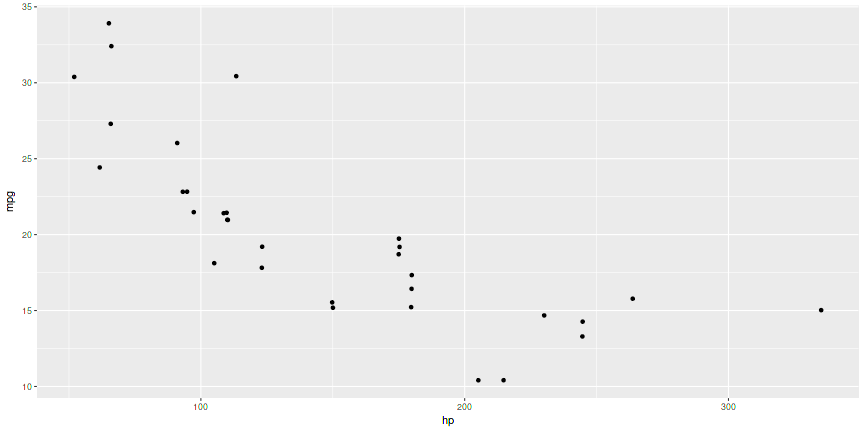
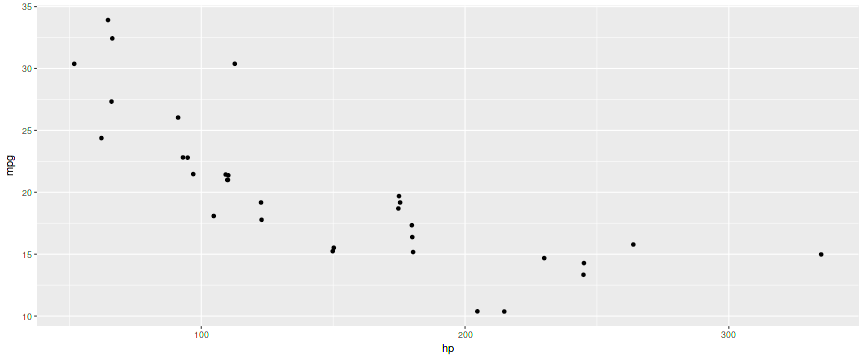
Modifications qui seront validées : 	supprimé :        .cache/unnamed-chunk-1_88f034bdf645f4dd7bbac26e81604a2c.RData 	supprimé :        .cache/unnamed-chunk-1_88f034bdf645f4dd7bbac26e81604a2c.rdb 	supprimé :        .cache/unnamed-chunk-1_88f034bdf645f4dd7bbac26e81604a2c.rdx 	modifié :         .cache

diff --git a/shinyApp/slides/index.html b/shinyApp/slides/index.html
@@ -83,6 +83,10 @@ All the variables appears after loading, and they can be selected in order to be
   <article data-timings="">
     <p>The chosen variables are plotted in a scatterplot like the following :</p>
 
+<pre><code class="r">require(ggplot2)
+ggplot(data=mtcars, aes(x=hp, y=mpg)) + geom_jitter() + xlab(&quot;hp&quot;) + ylab(&quot;mpg&quot;)
+</code></pre>
+
 <p><img src="assets/fig/unnamed-chunk-1-1.png" title="plot of chunk unnamed-chunk-1" alt="plot of chunk unnamed-chunk-1" style="display: block; margin: auto;" /></p>
 
   </article>

diff --git a/shinyApp/slides/index.md b/shinyApp/slides/index.md
@@ -35,6 +35,12 @@ The results are shown on 4 tabs :
 The chosen variables are plotted in a scatterplot like the following :
 
 
+
+```r
+require(ggplot2)
+ggplot(data=mtcars, aes(x=hp, y=mpg)) + geom_jitter() + xlab("hp") + ylab("mpg")
+```
+
 <img src="assets/fig/unnamed-chunk-1-1.png" title="plot of chunk unnamed-chunk-1" alt="plot of chunk unnamed-chunk-1" style="display: block; margin: auto;" />
 
 --- &twocol w1:75% w2:15%
@@ -55,4 +61,3 @@ Finally, the head, the tail, and the structure of the dataset are shown in table
 - Head shows first 6 rows of datas with the head() function.
 - Tail shows last 6 rows of datas with the tail() function.
 - Structure is shown with the str() function.
-
